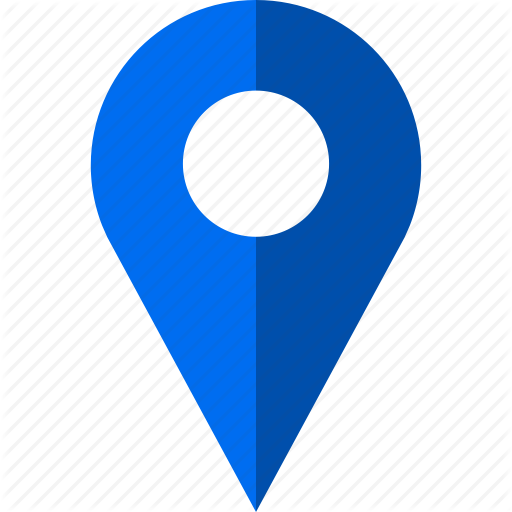
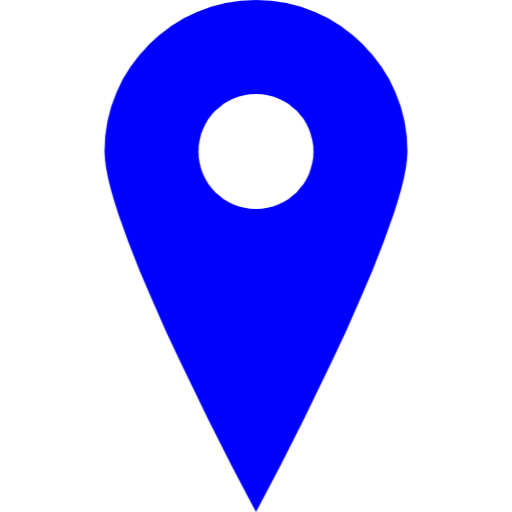
20211128_maruyama

diff --git a/src/app/bukken-list/bukken-list.component.ts b/src/app/bukken-list/bukken-list.component.ts
@@ -448,7 +448,10 @@ export class BukkenListComponent extends BaseComponent {
    setMarker(latlng: any, bk: Templandinfo) {
     const that = this;//20200902 Add
     const result = this.getCodeDetail('001', bk.result);
-    const pin = (result === '01' ? 'pin-blue2.png' : result === '02' ? 'pin-green.png' : 'pin-pink.png');
+    // 20211128 S_Update
+//    const pin = (result === '01' ? 'pin-blue2.png' : result === '02' ? 'pin-green.png' : 'pin-pink.png');
+    const pin = (result === '01' ? 'pin-blue.png' : result === '02' ? 'pin-green.png' : result === '03' ? 'pin-purple.png' : result === '04' ? 'pin-yellow.png' : 'pin-pink.png');
+    // 20211128 E_Update
     const marker = new google.maps.Marker({
       position: latlng,
       map: this.mapObj,
